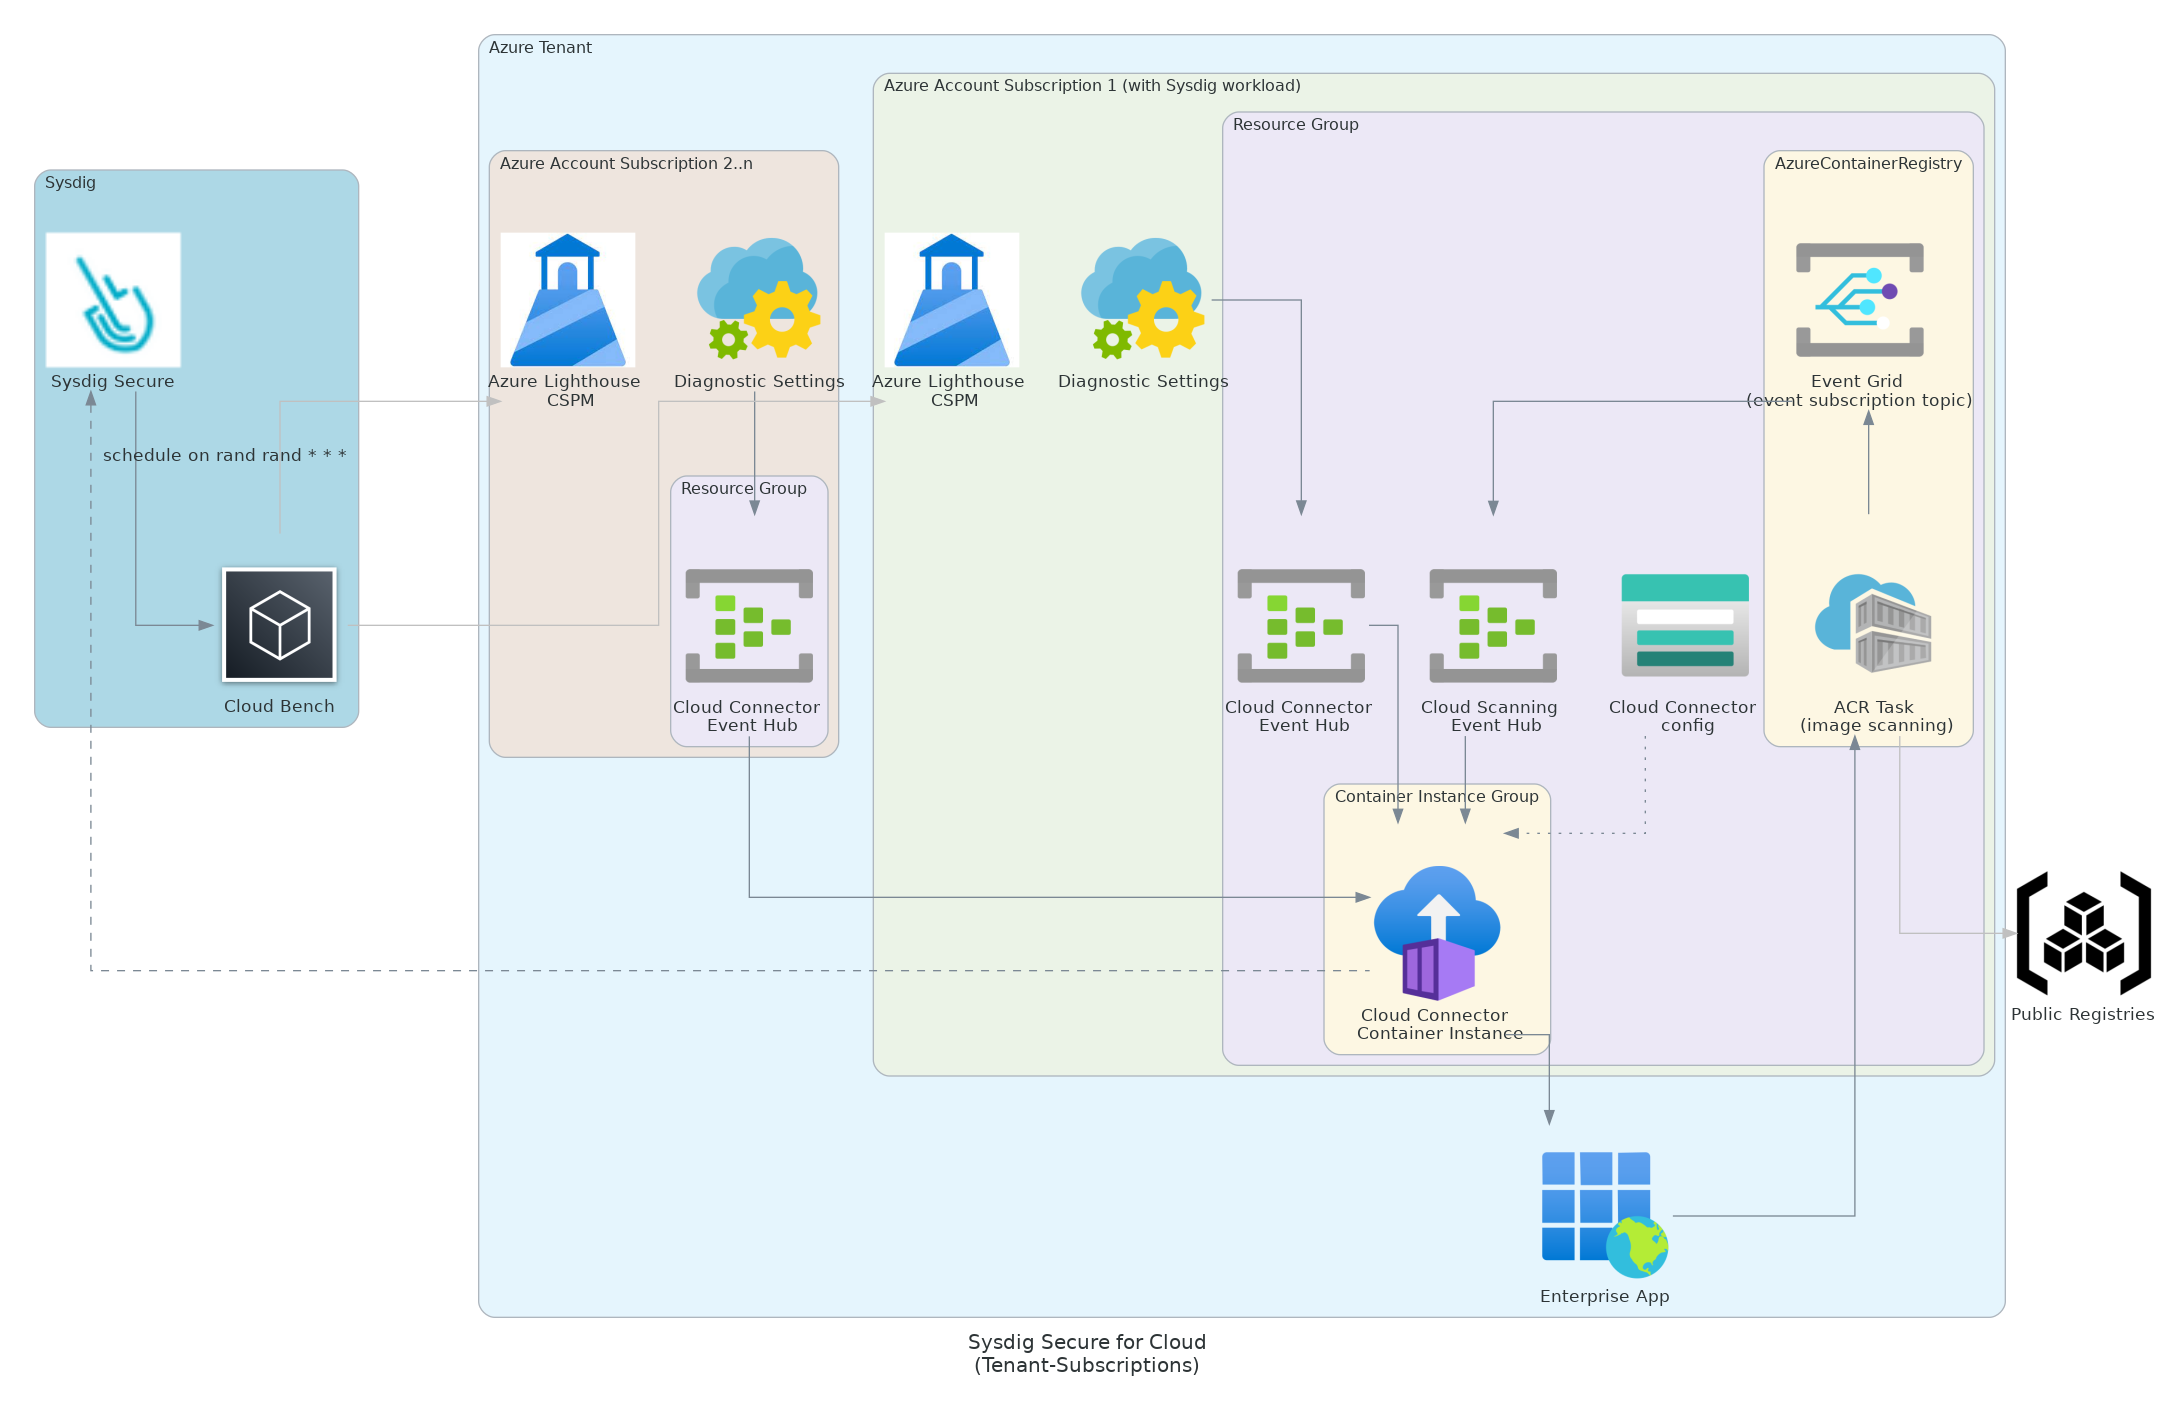
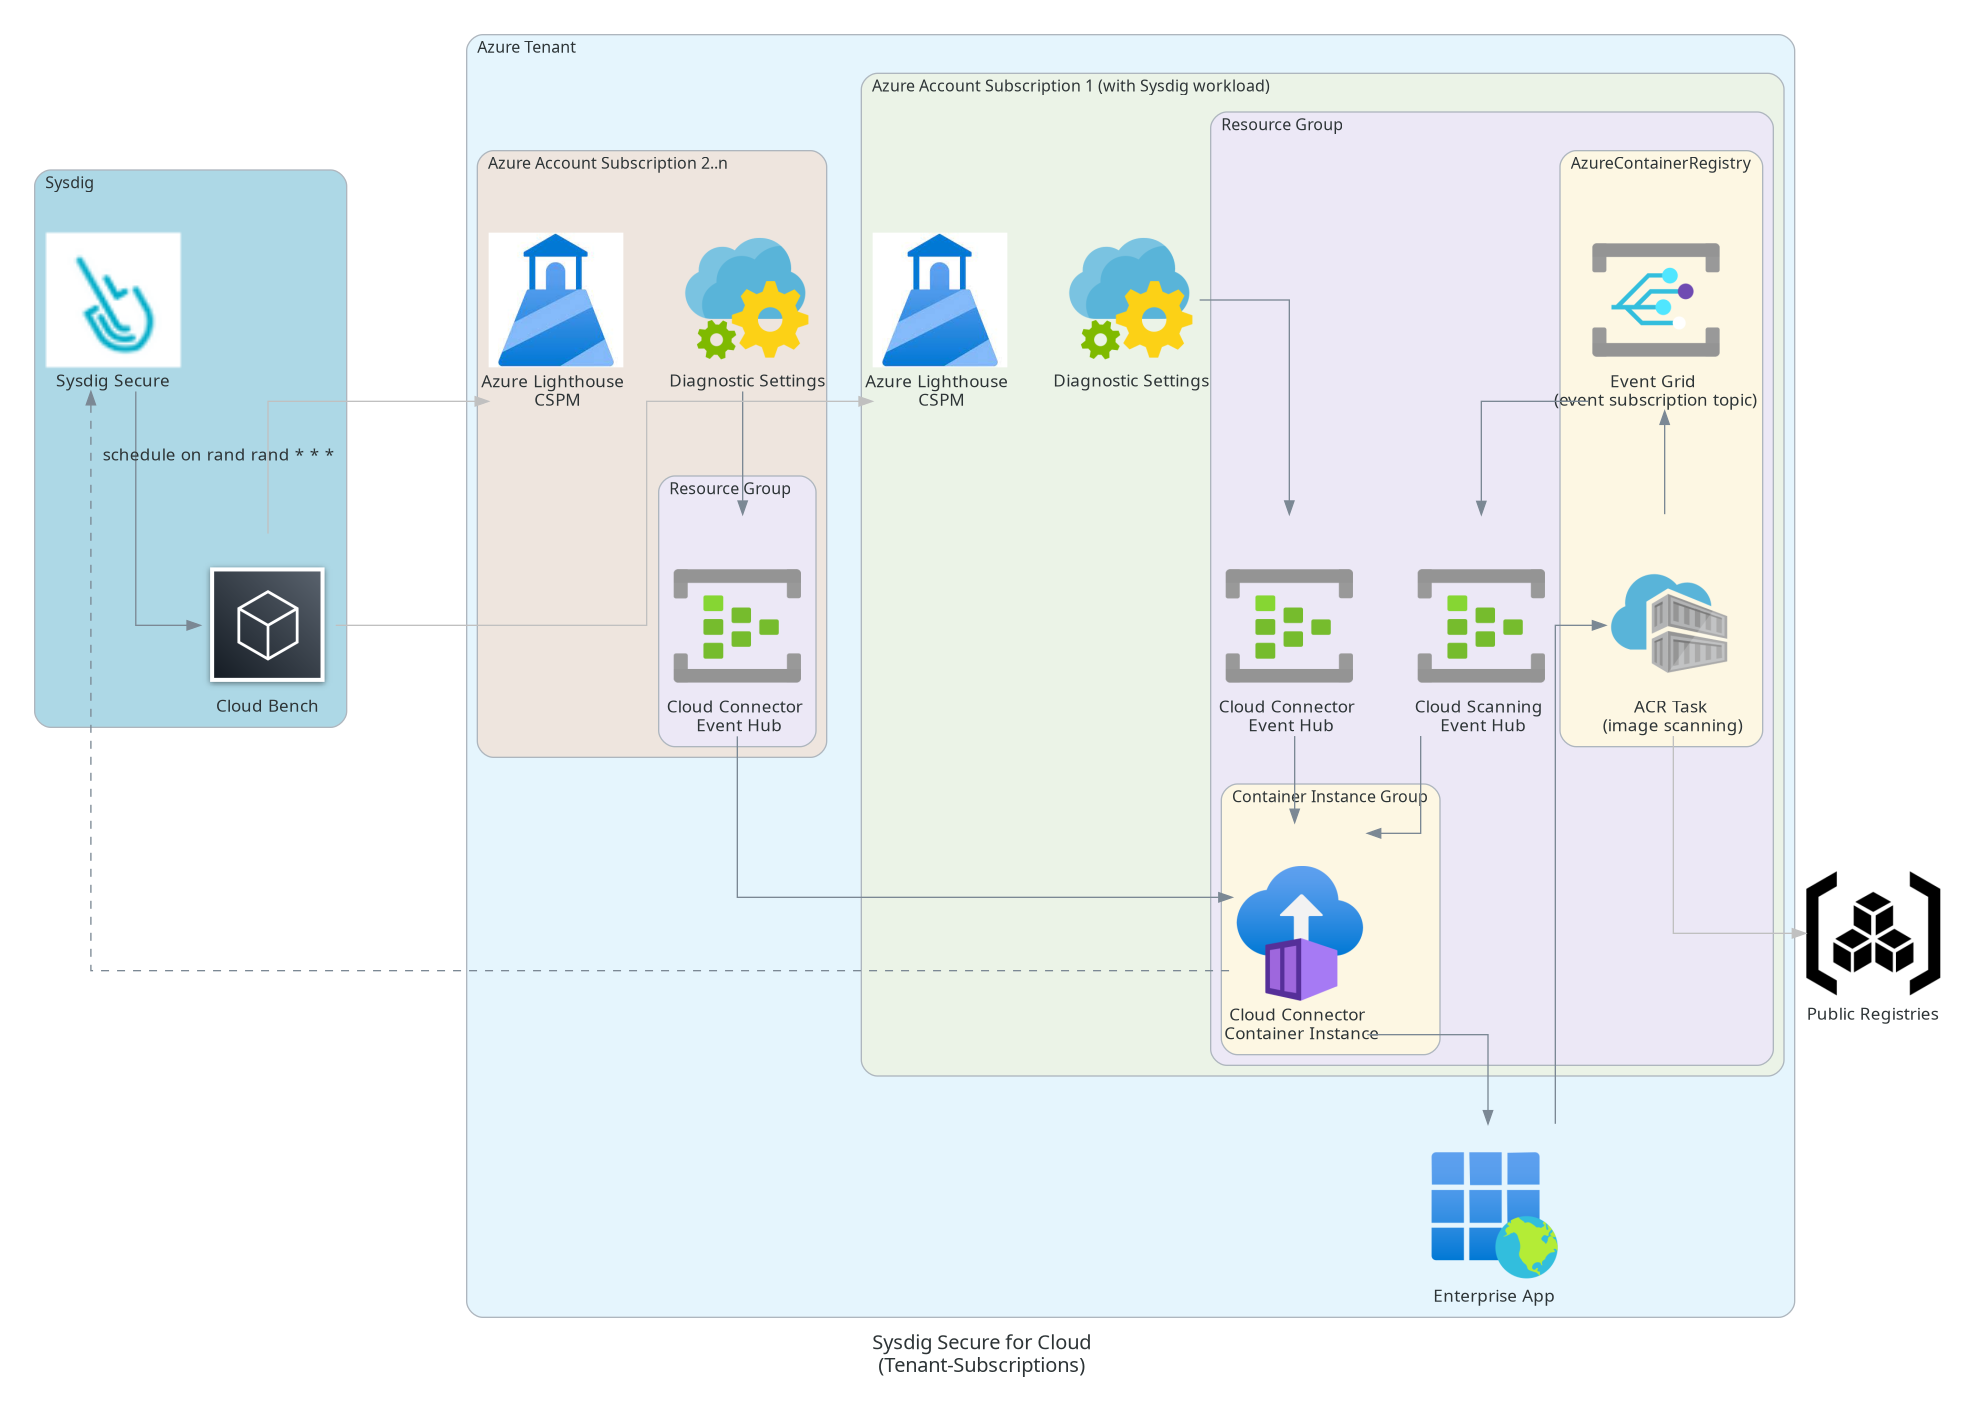
feat: remove config load from bucket (#73)

diff --git a/examples/single-subscription/diagram-single.py b/examples/single-subscription/diagram-single.py
@@ -42,14 +42,10 @@ with Diagram("Sysdig Secure for Cloud\n(Single Subscription)", graph_attr=diagra
               diagnosticSettings >> eventhubCC
               with Cluster("Container Instance Group"):
                   cc = ContainerInstances("Cloud Connector \n Container Instance")
-              ccConfig = StorageAccounts("Cloud Connector \n config")
 
               lighthouse = Custom("Azure Lighthouse \n CSPM", "../../resources/diag-lighthouse.jpeg")
 
 
-
-
-              ccConfig << Edge(style="dotted") << cc
               cregistry << app
 
               eventhubCC >> cc

diff --git a/examples/tenant-subscriptions/diagram-tenant.py b/examples/tenant-subscriptions/diagram-tenant.py
@@ -64,9 +64,6 @@ with Diagram("Sysdig Secure for Cloud\n(Tenant-Subscriptions)", graph_attr=diagr
                 with Cluster("Container Instance Group"):
                     cc = ContainerInstances("Cloud Connector \n Container Instance")
 
-                ccConfig = StorageAccounts("Cloud Connector \n config")
-
-                ccConfig >> Edge(style="dotted") >> cc
                 cregistry << app
 
                 eventhubCC >> cc

diff --git a/modules/services/cloud-connector/README.md b/modules/services/cloud-connector/README.md
@@ -28,9 +28,6 @@ No modules.
 |------|------|
 | [azurerm_container_group.cg](https://registry.terraform.io/providers/hashicorp/azurerm/latest/docs/resources/container_group) | resource |
 | [azurerm_network_profile.np](https://registry.terraform.io/providers/hashicorp/azurerm/latest/docs/resources/network_profile) | resource |
-| [azurerm_storage_account.sa](https://registry.terraform.io/providers/hashicorp/azurerm/latest/docs/resources/storage_account) | resource |
-| [azurerm_storage_blob.sb](https://registry.terraform.io/providers/hashicorp/azurerm/latest/docs/resources/storage_blob) | resource |
-| [azurerm_storage_container.sc](https://registry.terraform.io/providers/hashicorp/azurerm/latest/docs/resources/storage_container) | resource |
 | [azurerm_subnet.sn](https://registry.terraform.io/providers/hashicorp/azurerm/latest/docs/resources/subnet) | resource |
 | [azurerm_virtual_network.vn](https://registry.terraform.io/providers/hashicorp/azurerm/latest/docs/resources/virtual_network) | resource |
 | [random_string.random](https://registry.terraform.io/providers/hashicorp/random/latest/docs/resources/string) | resource |
@@ -63,7 +60,5 @@ No modules.
 
 ## Outputs
 
-| Name | Description |
-|------|-------------|
-| <a name="output_blob_url"></a> [blob\_url](#output\_blob\_url) | url |
+No outputs.
 <!-- END OF PRE-COMMIT-TERRAFORM DOCS HOOK -->
